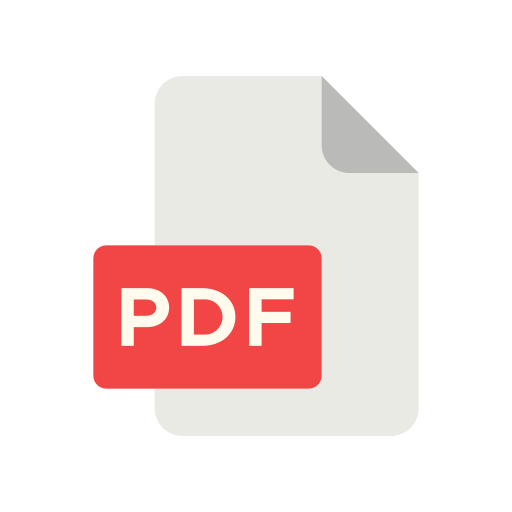
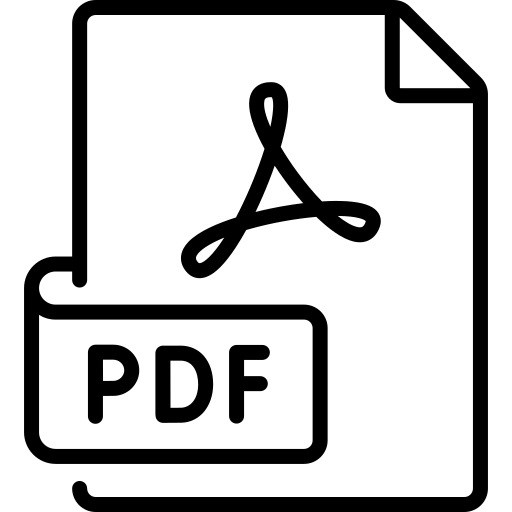
M1: minor changes done in view cases

diff --git a/client/pages/viewCRFDengueCase.vue b/client/pages/viewCRFDengueCase.vue
@@ -54,7 +54,7 @@
           </span>
           <div v-show="!editStatus && !isPrint" class="CRFActionButtons">
             <img
-              src="~/assets/img/print.png"
+              src="~/assets/img/pdf.png"
               class="printButton"
               @click="downloadPDF"
             />
@@ -881,36 +881,49 @@
               {{ Object.values(disease.formNames)[4] }}
             </h2>
 
-            <div class="field-row" style="display: inline-flex; margin-bottom: -1 px">
+            <div
+              class="field-row"
+              style="display: inline-flex; margin-bottom: -1 px"
+            >
               <div class="field">
                 <label class="required">
                   Please select the clinical classification
                 </label>
                 <div>
-                  <!-- <div style="display: inline-flex; flex-direction: column"> -->
-                  <!-- CLINICAL CLASSIFICATION -->
-                  <div>
-                    <div class="collpaseWrapper">
-                      <ul v-for="(value, i) in clinicalClassification" :key="i" style="displayLinline-flex">
-                        
-                        <label :for="value.name" class="collapseLabel">
-                          <input
-                            :id="value.name"
-                            v-model="formData.caseData.clinicalClassification"
-                            :value="name"
-                            class="input-checkbox"
-                            name="finalClassification"
-                            type="radio"
-                            :disabled="inputEdit()"
-                          />
-                          {{ value.name }}
-                        </label>
-                      </ul>
+                  <div style="display: inline-flex; flex-direction: column">
+                    <div
+                      v-for="(value, name, i) in clinicalClassification"
+                      :key="i"
+                      class="checkbox-options"
+                    >
+                      <input
+                        :id="i"
+                        v-model="formData.caseData.clinicalClassification"
+                        :value="name"
+                        class="input-checkbox"
+                        name="clinicalClassification"
+                        type="radio"
+                        :disabled="inputEdit()"
+                      />
+                      <label :for="i">
+                        {{ value.name }}
+                      </label>
+                      <!-- <div class="tooltip">
+                        <img
+                          id="infofever"
+                          class="info-icon-img"
+                          src="~/assets/img/infoicon.png"
+                        />
+                        <span class="tooltipText" style="width: 500px">{{
+                          value
+                        }}</span>
+                      </div> -->
                     </div>
                   </div>
                 </div>
               </div>
             </div>
+
           </div>
         </form>
         <hr v-if="isPrint" />
@@ -1186,35 +1199,49 @@
               {{ Object.values(disease.formNames)[7] }}
             </h2>
 
-            <div class="field-row" style="display: inline-flex; margin-bottom: -1 px">
+            <div
+              class="field-row"
+              style="display: inline-flex; margin-bottom: -1 px"
+            >
               <div class="field">
                 <label class="required">
                   Please select the case classification
                 </label>
                 <div>
-                  <!-- <div style="display: inline-flex; flex-direction: column"> -->
-                  <!-- CASE CLASSIFICATION -->
-                  <div>
-                    <div class="collpaseWrapper">
-                      <ul v-for="(value, name, i) in caseClassification" :key="i" style="displayLinline-flex">
-                        <label :for="name" class="collapseLabel">
-                          <input
-                            :id="name"
-                            v-model="formData.caseData.caseClassification"
-                            :value="name"
-                            class="input-checkbox"
-                            name="finalClassification"
-                            type="radio"
-                            :disabled="inputEdit()"
-                          />
-                          {{ name }}
-                        </label>
-                      </ul>
+                  <div style="display: inline-flex; flex-direction: column">
+                    <div
+                      v-for="(value, name, i) in caseClassification"
+                      :key="i"
+                      class="checkbox-options"
+                    >
+                      <input
+                        :id="i"
+                        v-model="formData.caseData.caseClassification"
+                        :value="name"
+                        class="input-checkbox"
+                        name="caseClassification"
+                        type="radio"
+                        :disabled="inputEdit()"
+                      />
+                      <label :for="i">
+                        {{ name }}
+                      </label>
+                      <div class="tooltip">
+                        <img
+                          id="infofever"
+                          class="info-icon-img"
+                          src="~/assets/img/infoicon.png"
+                        />
+                        <span class="tooltipText" style="width: 500px">{{
+                          value
+                        }}</span>
+                      </div>
                     </div>
                   </div>
                 </div>
               </div>
             </div>
+
           </div>
         </form>
         <hr v-if="isPrint" />
@@ -2108,6 +2135,7 @@ select {
   opacity: 1;
   transform: translateY(-10px);
   z-index: 3;
+  margin-left: 300px;
 }
 
 .tooltipText::after {
@@ -2118,7 +2146,7 @@ select {
   position: absolute;
   top: 100%;
   left: 40%;
-  margin-left: 5%;
+  margin-left: -21%;
 }
 
 img:hover + .info-desc {

diff --git a/client/pages/viewCIFMeasles.vue b/client/pages/viewCIFMeasles.vue
@@ -25,60 +25,28 @@
                 <img src="~/assets/img/pen.png" />
               </ul>
             </div>
-            <!-- <div
-              v-show="editCase"
-              class="CIFActionButtons"
-              style="margin-top: 5px"
-            >
-              <select
-                v-model="formData.cases.caseLevel"
-                style="margin: -10px 0 -15px"
-              >
-                <option
-                  v-for="(name, value, index) in classification"
-                  :key="index"
-                  :value="value"
-                  selected="formData.cases.caseLevel"
-                >
-                  {{ value }}
-                </option>
-              </select>
-              <ul
-                class="CIFEdit"
-                style="margin-top: 7px;margin-left: 5px;"
-                @click="editCase = !editCase"
-              >
-                <img id="saveIcon" src="~/assets/img/save.png" />
-              </ul>
-            </div> -->
           </span>
           <div v-show="!editStatus && !isPrint" class="CIFActionButtons">
-            <!-- <ul class="CIFActionButton" @click="downloadPDF"> -->
             <img
-              src="~/assets/img/print.png"
+              src="~/assets/img/pdf.png"
               class="printButton"
               @click="downloadPDF"
             />
-            <!-- </ul> -->
-            <!-- <ul class="CIFActionButton">
-              <img src="~/assets/img/csv.png" />
-            </ul> -->
           </div>
         </div>
       </div>
-      <div class="CIFreports">
-        <!-- <div class="CIFreports"> -->
-        <p>
-          Reported by: <b>{{ formData.cases.reporterName }}</b>
-        </p>
-        <p>Type: <b>Private Laboratory</b></p>
-        <!-- </div>
-        <div class="CIFreports"> -->
-        <!-- <p>Case Level: <b>1</b></p> -->
-        <p>
-          Reported Date: <b>{{ formData.cases.reportDate }}</b>
-        </p>
-        <!-- </div> -->
+      <div class="viewCIF-details" style="align-text: left">
+        <div class="CIFnumbers">
+          <p>DRU City: <b>Manila</b></p>
+          <p>DRU Name: <b>HAKDOG</b></p>
+          <p>DRU Type: <b>type</b></p>
+          <p>DRU Address: <b>house</b></p>
+        </div>
+        <div class="CIFstatus" style="align-text: right">
+          
+          <p>Reported Date: <b>{{ formData.cases.reportDate }}</b></p>
+          <p>Last Updated: <b>{{ formData.cases.updatedDate }}</b></p>
+        </div>
       </div>
       <div v-show="!isPrint" class="CIF-SummaryContainer">
         <ul
@@ -1831,7 +1799,7 @@
                           class="info-icon-img"
                           src="~/assets/img/infoicon.png"
                         />
-                        <span class="tooltipText" style="width: 500px">{{
+                        <span class="tooltipText" style="width: 650px">{{
                           value
                         }}</span>
                       </div>
@@ -2697,6 +2665,8 @@ b {
 .printButton {
   width: 30px;
   height: 30px;
+  margin-top: 10px;
+  margin-bottom: -10px;
 }
 
 .CIFEdit {
@@ -3125,6 +3095,7 @@ select {
   opacity: 1;
   transform: translateY(-10px);
   z-index: 3;
+  margin-left: 300px;
 }
 
 .tooltipText::after {
@@ -3135,7 +3106,7 @@ select {
   position: absolute;
   top: 100%;
   left: 40%;
-  margin-left: 5%;
+  margin-left: -14%;
 }
 
 img:hover + .info-desc {

diff --git a/client/pages/dataTable.vue b/client/pages/dataTable.vue
@@ -131,7 +131,12 @@
                 <component :is="column.name" :row="data"></component>
               </span>
               <span v-else-if="column.type === 'clickable'">
-                <a v-if="pageType === 'all' && data['type'] === 'CIF'"
+                <a v-if="data['disease'] === 'Measles/Rubella'"
+                  style="color: #346083; text-decoration-line: underline"
+                  :href="'/view' + 'CIFMeasles'">
+                  {{ data[column.key] }}
+                </a>
+                <a v-else-if="pageType === 'all' && data['type'] === 'CIF'"
                   style="color: #346083; text-decoration-line: underline"
                   :href="'/view' + data['type'] + data['disease']">
                   {{ data[column.key] }}

diff --git a/client/pages/viewCRFDengue.vue b/client/pages/viewCRFDengue.vue
@@ -15,7 +15,7 @@
             <p>Last updated: {{ updatedDate }}</p>
           </div>
           <div v-show="!isPrint" class="CRFActionButtons">
-            <img src="~/assets/img/print.png" class="printButton" @click="downloadPDF" />
+            <img src="~/assets/img/pdf.png" class="printButton" @click="downloadPDF" />
           </div>
         </div>
       </div>

diff --git a/client/pages/allCases.vue b/client/pages/allCases.vue
@@ -19,7 +19,7 @@
         <div v-show="!isPrint" class="CRFActionButtons">
           <ul class="CRFActionButton" @click="downloadPDF">
           <img
-            src="~/assets/img/print.png"
+            src="~/assets/img/pdf.png"
             class="printButton"
             @click="downloadPDF"
           />
